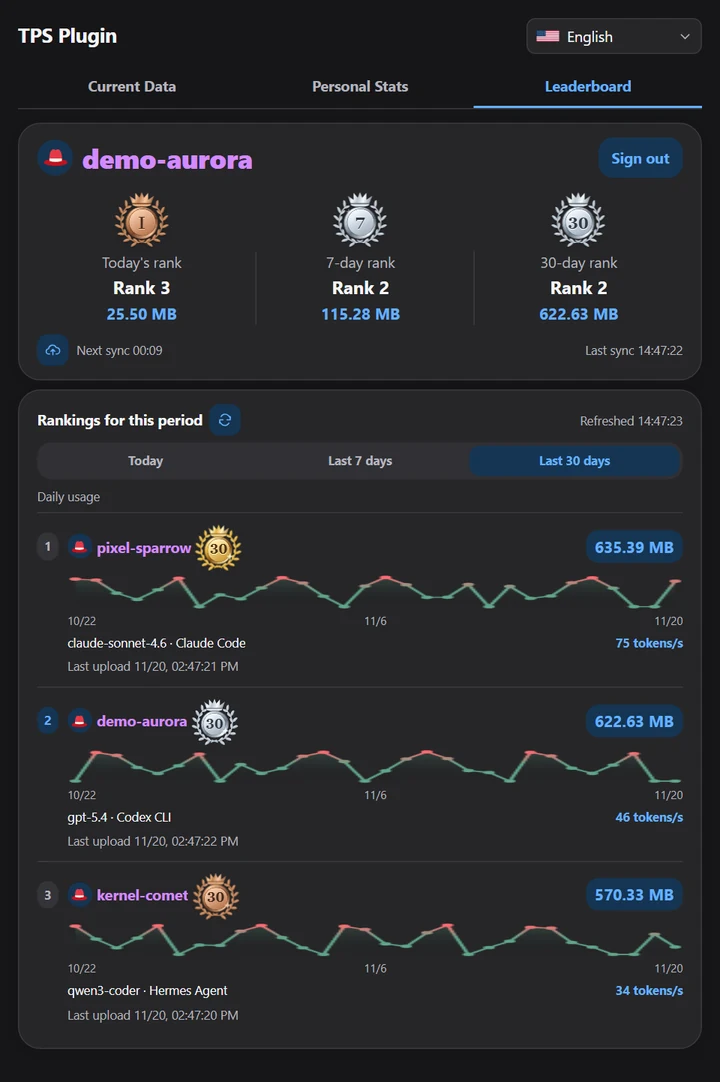
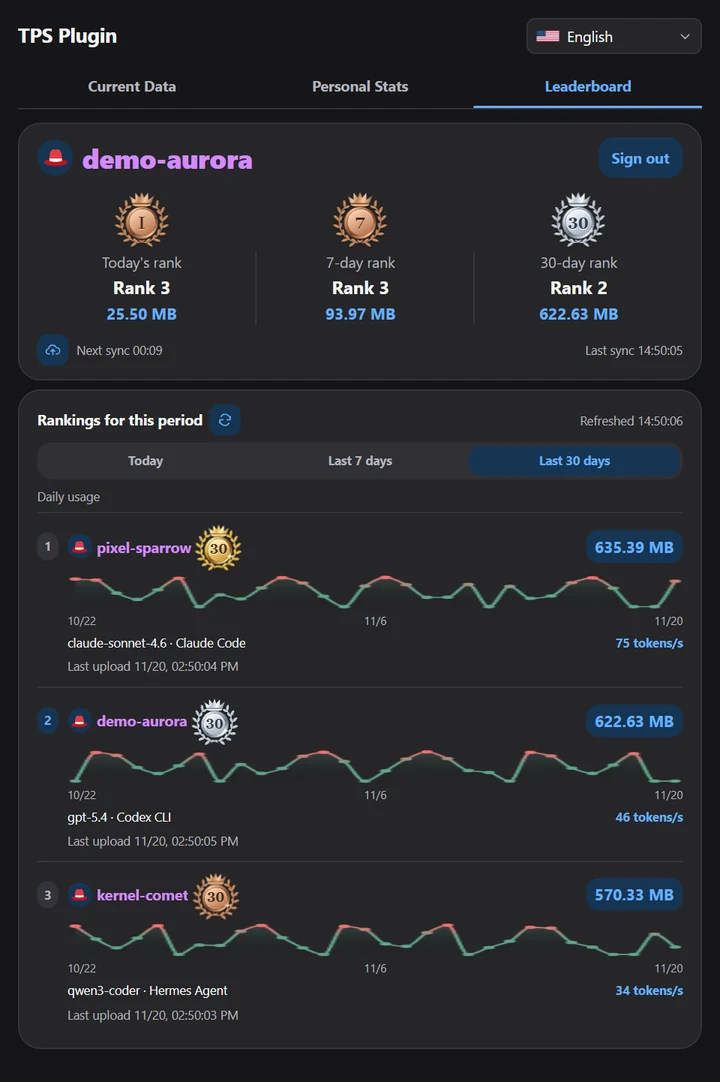
feat: smooth daily leaderboard curves with cubic Beziers

diff --git a/src/panel.html b/src/panel.html
@@ -1530,6 +1530,31 @@
         });
       }
 
+      function dailyUsagePath(points, x, y) {
+        const levels = points.map(y);
+        const changes = levels.slice(1).map((level, index) => level - levels[index]);
+        const tangents = levels.map((_, index) => {
+          const before = changes[index - 1] ?? changes[index];
+          const after = changes[index] ?? before;
+          // Keep peaks, valleys, and flat stretches within the recorded range.
+          return before * after > 0 ? 2 * before * after / (before + after) : 0;
+        });
+        const line = new Path2D();
+        let startX = x(points[0]);
+        line.moveTo(startX, levels[0]);
+        for (let index = 1; index < points.length; index++) {
+          const endX = x(points[index]);
+          const third = (endX - startX) / 3;
+          line.bezierCurveTo(
+            startX + third, levels[index - 1] + tangents[index - 1] / 3,
+            endX - third, levels[index] - tangents[index] / 3,
+            endX, levels[index]
+          );
+          startX = endX;
+        }
+        return line;
+      }
+
       function paintUsagePath(ctx, line, baseline, firstX, lastX) {
         const colors = window.getComputedStyle(document.documentElement);
         const low = colors.getPropertyValue('--usage-wave-low').trim();
@@ -1674,10 +1699,7 @@
             if (!ctx) return;
             ctx.clearRect(0, 0, chart.width, chart.height);
             ctx.lineWidth = 2;
-            const line = new Path2D();
-            line.moveTo(x(points[0]), y(points[0]));
-            for (const point of points.slice(1)) line.lineTo(x(point), y(point));
-            paintUsagePath(ctx, line, chart.height - chartPadding, x(points[0]), x(latestPoint));
+            paintUsagePath(ctx, dailyUsagePath(points, x, y), chart.height - chartPadding, x(points[0]), x(latestPoint));
             for (const point of points) {
               ctx.beginPath();
               ctx.arc(x(point), y(point), 3, 0, Math.PI * 2);

diff --git a/docs/superpowers/specs/2026-11-20-leaderboard-five-minute-stats-design.md b/docs/superpowers/specs/2026-11-20-leaderboard-five-minute-stats-design.md
@@ -55,7 +55,7 @@
 | 断线恢复 | 读取服务器此刻的快照，替换本地数据。 |
 | 离开榜单 | 暂停看榜的自动拉取。 |
 
-今日榜用一条心电图式的细线连接最近 5 分钟的提交记录。每笔记录在实际提交时间画一个平滑的波峰，峰高表示这笔的新增 Token。零值画成基线上的小点，两笔提交之间由平线连接。持续查看时，新峰出现时跳一次，首次打开或重连时直接绘出当前记录。近 7 天和近 30 天榜使用 `daily=1`，每行额外返回 `daily`，由已有的每日榜单成绩组成，格式为 `{ day, tokens }`。日期按北京时间划分，窗口包含今天。插件把缺记录的日期补为 0，按日期连续绘制该账号的每日累计用量。三个周期的用量线下方填充淡绿色，越靠近零线越透明。日曲线响应只带最近一笔提交的短期数据，供卡片显示速度、模型和 CLI。
+今日榜用一条心电图式的细线连接最近 5 分钟的提交记录。每笔记录在实际提交时间画一个平滑的波峰，峰高表示这笔的新增 Token。零值画成基线上的小点，两笔提交之间由平线连接。持续查看时，新峰出现时跳一次，首次打开或重连时直接绘出当前记录。近 7 天和近 30 天榜使用 `daily=1`，每行额外返回 `daily`，由已有的每日榜单成绩组成，格式为 `{ day, tokens }`。日期按北京时间划分，窗口包含今天。插件把缺记录的日期补为 0，用三次贝塞尔曲线连接每天的用量点。相邻两个零值之间沿零线绘制。三个周期的用量线下方填充淡绿色，越靠近零线越透明。日曲线响应只带最近一笔提交的短期数据，供卡片显示速度、模型和 CLI。
 
 三种用量图按每张图的纵轴从绿色渐变到红色，绿色表示该图中较低的用量。
 

diff --git a/README.md b/README.md
@@ -54,7 +54,7 @@ Open **TPS Plugin** in Orca’s right sidebar to switch between **Current Data**
 ### 3.3 Leaderboard
 
 - Browse today’s, 7-day, and 30-day rankings. Entries show GitHub avatars, and the top three get gold, silver, and bronze medals.
-- The top 100 entries show a five-minute waveform with one peak per upload on Today. The 7-day and 30-day charts connect every Beijing calendar day, with zero usage on days without records. Entries also show the latest average generation speed, most-used model and CLI, and last upload time. The leaderboard refreshes every 10 seconds while open.
+- The top 100 entries show a five-minute waveform with one peak per upload on Today. The 7-day and 30-day curves pass through every Beijing calendar day's usage, with zero on days without records. Entries also show the latest average generation speed, most-used model and CLI, and last upload time. The leaderboard refreshes every 10 seconds while open.
 - A light green fill fades to transparent below each usage line. Lower usage is green and higher usage transitions to red.
 - Sign in with GitHub to participate. The leaderboard combines usage across installations linked to the same account. The plugin fetches avatars directly from GitHub and shows a built-in red hat avatar until one loads. Missing avatars are retried after the next sync, and a loaded avatar is reused everywhere it appears.
 - While signed in, the plugin attempts to sync every 10 seconds. Manual sync shares the same interval. The account card shows the countdown, the last successful sync, and any recent error.
